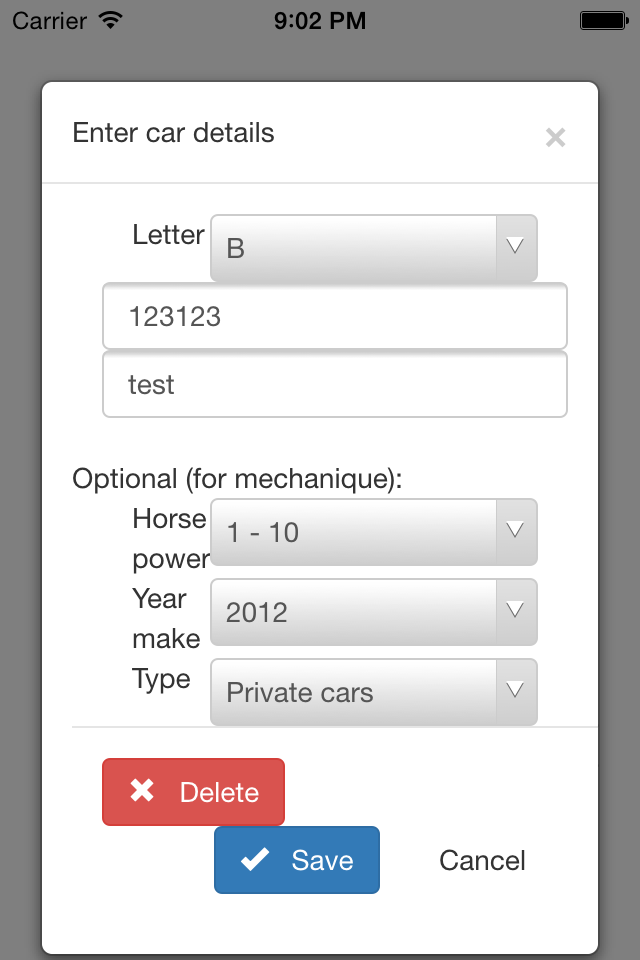
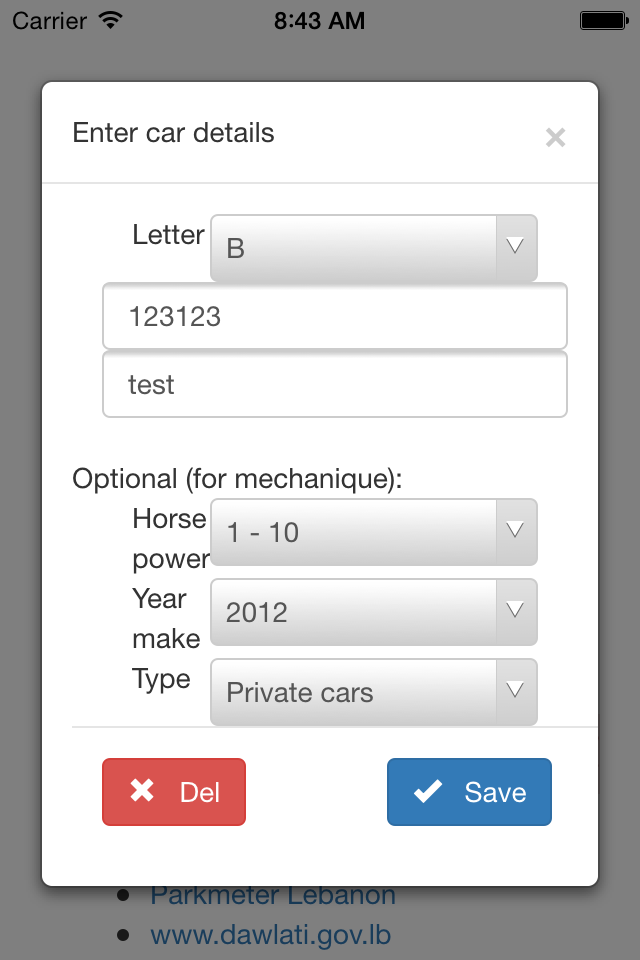
aesthetics and version bump after testing on iphone 4

Changed region(s): [[0.0625, 0.7812, 0.9375, 1.0], [0.4375, 0.0, 0.5625, 0.0312]]

diff --git a/www/index.html b/www/index.html
@@ -97,7 +97,7 @@
 				<button ng-click="edit(rd.a,rd.n)" class="btn btn-info"><span class="glyphicon glyphicon-pencil"></span></button>
 			</td>
 		</tr>
-		<tr ng-if="rd.dm" class="{{getCarRowClass(rd.a,rd.n)}}"><td colspan=2><small>Mechanique: {{rd.dm}}</small></td></tr>
+		<tr ng-if="rd.dm" class="{{getCarRowClass(rd.a,rd.n)}}"><td colspan=2 style="padding-left:20px"><small>Mechanique: {{rd.dm}}</small></td></tr>
 	</tbody>
 	<tr ng-show="noData()">
 		<td colspan=3 class="text-center">No cars added</td>
@@ -147,13 +147,13 @@
 			</div>
 		</div>
 		<div class="modal-footer row">
-			<div class="pull-left"><button ng-click="hideAdd(); del(addC.a,addC.n); addReset();" class="btn btn-danger"><span class="glyphicon glyphicon-remove"></span> &nbsp; Delete</button></div>
+			<div class="pull-left"><button ng-click="hideAdd(); del(addC.a,addC.n); addReset();" class="btn btn-danger"><span class="glyphicon glyphicon-remove"></span> &nbsp; Del</button></div>
 			<div class="pull-right">
 				<button ng-click="add()" class="btn btn-primary" ng-disabled="addCisInvalid()">
 					<span ng-show="!editStatus"><span class="glyphicon glyphicon-plus"></span> &nbsp; Add</span>
 					<span ng-show=" editStatus"><span class="glyphicon glyphicon-ok"></span> &nbsp; Save</span>
 				</button> &nbsp;
-				<button ng-click="hideAdd(); addReset()" class="btn">Cancel</button> &nbsp;
+				<!--<button ng-click="hideAdd(); addReset()" class="btn">Cancel</button> &nbsp;-->
 			</div>
 		</div>
 		</div>
